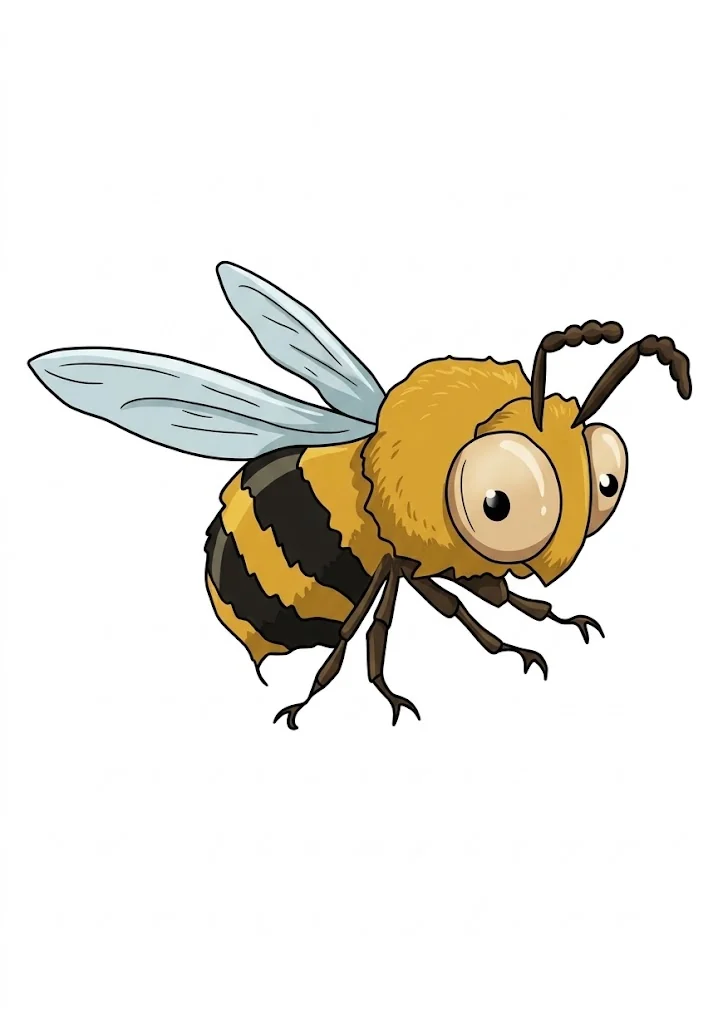
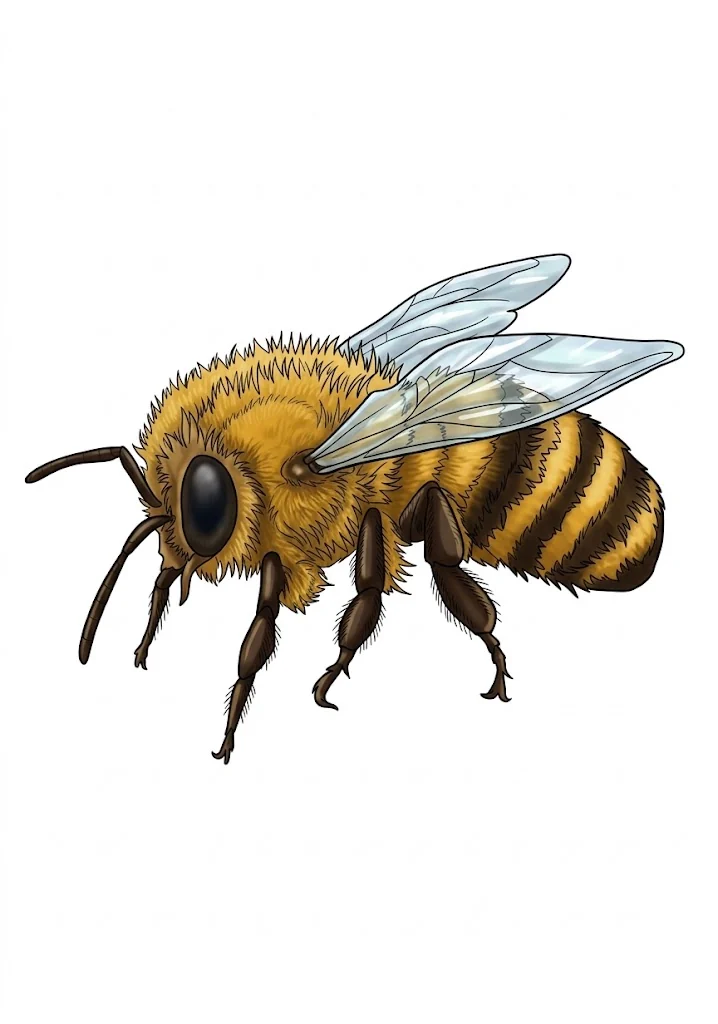
Fix animal artwork pairings

Changed region(s): [[0.0306, 0.25, 0.9805, 0.75]]

diff --git a/data/september-animal-pages.ts b/data/september-animal-pages.ts
@@ -11,6 +11,11 @@ const animals: Animal[] = [
   ["realistic-ladybug", "Realistic Ladybug", "A natural ladybug perched on a small branch."],
   ["adventurous-bee", "Adventurous Bee", "A lively little bee flying forward with a big smile."],
   ["silly-bumblebee", "Silly Bumblebee", "A round bumblebee with tiny feet and a playful expression."],
+  ["heart-eyed-bee", "Heart-Eyed Bee", "A happy bee with heart-shaped eyes, fluffy stripes, and delicate wings."],
+  ["large-hornet", "Large Hornet", "A bold hornet with powerful wings and crisp yellow-and-black stripes."],
+  ["surprised-snail", "Surprised Snail", "A wide-eyed snail with a big spiral shell and an amazed expression."],
+  ["pilot-mosquito", "Pilot Mosquito", "A playful mosquito flying a tiny paper airplane."],
+  ["wide-eyed-cockroach", "Wide-Eyed Cockroach", "A funny cockroach with oversized eyes and a rounded shell."],
   ["desert-scorpion", "Desert Scorpion", "A detailed scorpion with raised tail and sturdy pincers."],
   ["front-ladybug", "Front-Facing Ladybug", "A bold red ladybug seen from above."],
   ["flower-ladybug", "Flower Ladybug", "A friendly ladybug carrying a sunny flower."],
